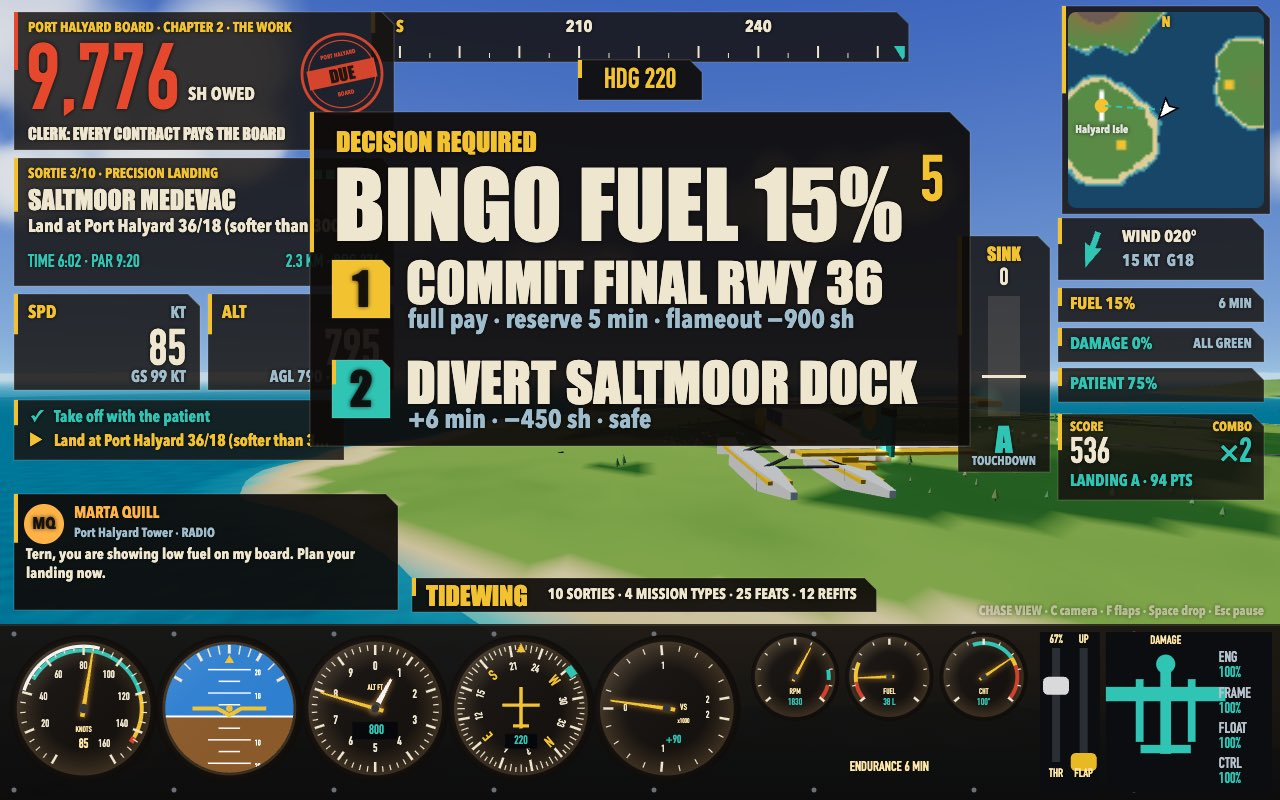
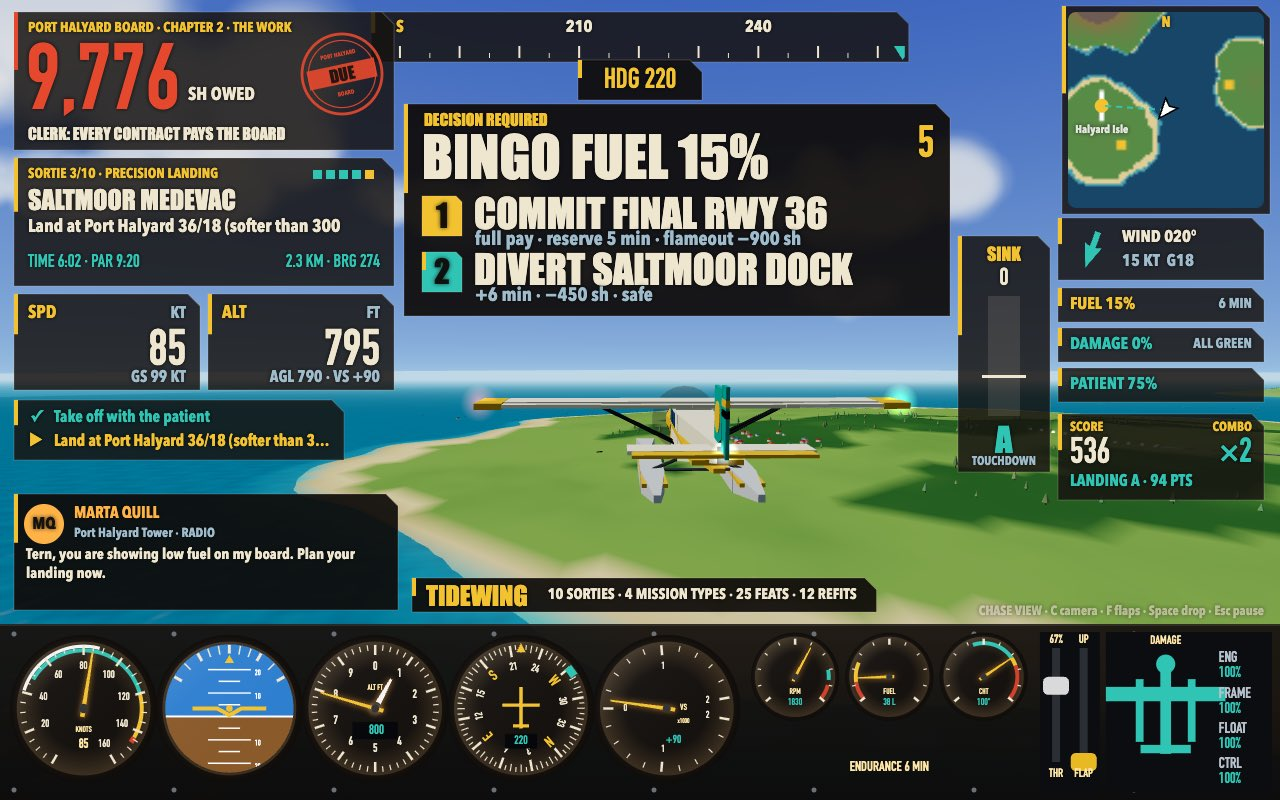
fix(hud): decision boxes in a strip under the heading tape, clear of the aircraft and readouts
At most 45% of the width and 212 px tall, between the SPD/ALT column and the sink
meter. Both options keep their costs and the damage lines stay. Bingo and damage
cells re-rendered with the Tern in frame.

diff --git a/game/src/hud/flightHud.js b/game/src/hud/flightHud.js
@@ -588,52 +588,57 @@ export function drawFlightHud(ctx, W, H, ms, info) {
   scopeStrip(ctx, W, info.scope, info.panelTop - 46, 412, W - 16 - measure(ctx, help, 13) - 14);
 }
 
-// The bingo decision, sized to read from across the room: the headline, then each option
-// with its price in numbers. The countdown commits.
+// Where a decision box sits: a strip under the heading tape, right of the SPD/ALT boxes and
+// the mission card and left of the sink meter, at most 45% of the width and DECISION_H tall,
+// so the aircraft below it, the readouts and the meters stay in view.
+const DECISION_H = 212;
+function decisionFrame(W) {
+  const x = 404;
+  const w = Math.min(W * 0.45, W - 222 - 92 - 16 - x);
+  return { x, y: 104, w };
+}
+
+// The bingo decision: the headline, then each option with its price in numbers.
+// The countdown commits.
 function bingoBox(ctx, W, b) {
-  const w = 660;
-  const x = W / 2 - w / 2;
-  const y = 112;
-  box(ctx, x, y, w, 334, { fill: DARK, tab: AMBER, cut: 20 });
-  text(ctx, 'DECISION REQUIRED', x + 26, y + 30, 26, AMBER, 'left', 'display');
-  text(ctx, `${b.left}`, x + w - 26, y + 70, 64, AMBER, 'right', 'numeral');
-  text(ctx, `BINGO FUEL ${b.fuelPct}%`, x + 24, y + 94, 92, INK, 'left', 'display');
+  const { x, y, w } = decisionFrame(W);
+  box(ctx, x, y, w, DECISION_H, { fill: DARK, tab: AMBER, cut: 14 });
+  text(ctx, 'DECISION REQUIRED', x + 20, y + 16, 16, AMBER, 'left', 'display');
+  text(ctx, `${b.left}`, x + w - 16, y + 40, 44, AMBER, 'right', 'numeral');
+  text(ctx, `BINGO FUEL ${b.fuelPct}%`, x + 18, y + 54, 56, INK, 'left', 'display');
   const opt = (yy, key, head, cost, col) => {
-    box(ctx, x + 22, yy - 30, 58, 58, { fill: col, cut: 8 });
-    text(ctx, key, x + 51, yy, 46, DARK, 'center', 'display');
-    text(ctx, head, x + 96, yy - 6, 54, INK, 'left', 'display');
-    text(ctx, cost, x + 98, yy + 32, 26, DIM);
+    box(ctx, x + 18, yy - 20, 40, 40, { fill: col, cut: 6 });
+    text(ctx, key, x + 38, yy, 32, DARK, 'center', 'display');
+    text(ctx, clip(ctx, head, w - 90, 40), x + 70, yy - 2, 40, INK, 'left', 'display');
+    text(ctx, cost, x + 71, yy + 25, 19, DIM);
   };
-  opt(y + 178, '1', `COMMIT FINAL RWY ${b.commit.rwy}`, `full pay · reserve ${b.commit.reserveMin} min · flameout −${b.commit.flameoutSh} sh`, AMBER);
-  opt(y + 278, '2', `DIVERT ${b.divert.to.toUpperCase()}`, `+${b.divert.min} min · −${b.divert.sh} sh · safe`, CYAN);
+  opt(y + 112, '1', `COMMIT FINAL RWY ${b.commit.rwy}`, `full pay · reserve ${b.commit.reserveMin} min · flameout −${b.commit.flameoutSh} sh`, AMBER);
+  opt(y + 168, '2', `DIVERT ${b.divert.to.toUpperCase()}`, `+${b.divert.min} min · −${b.divert.sh} sh · safe`, CYAN);
 }
 
 // YOUR CALL on damage: each hurt part with its effect, then repair at the next stop or press on.
 function repairBox(ctx, W, r, lines = []) {
-  const w = 660;
-  const x = W / 2 - w / 2;
-  const y = 112;
-  const shown = lines.slice(0, 2);
-  const h = 150 + shown.length * 50 + 96;
-  box(ctx, x, y, w, h, { fill: DARK, tab: AMBER, cut: 20 });
-  text(ctx, 'YOUR CALL', x + 26, y + 30, 26, AMBER, 'left', 'display');
-  text(ctx, `${r.left}`, x + w - 26, y + 70, 64, AMBER, 'right', 'numeral');
-  text(ctx, 'SHE IS FLYING HURT', x + 24, y + 92, 72, INK, 'left', 'display');
-  shown.forEach((l, i) => {
+  const { x, y, w } = decisionFrame(W);
+  box(ctx, x, y, w, DECISION_H, { fill: DARK, tab: AMBER, cut: 14 });
+  text(ctx, 'YOUR CALL', x + 20, y + 16, 16, AMBER, 'left', 'display');
+  text(ctx, `${r.left}`, x + w - 16, y + 40, 44, AMBER, 'right', 'numeral');
+  text(ctx, 'FLYING HURT', x + 18, y + 50, 48, INK, 'left', 'display');
+  lines.slice(0, 2).forEach((l, i) => {
     const [part, effect] = l.text.split(' · ');
-    const yy = y + 150 + i * 50;
-    text(ctx, part, x + 26, yy, 40, AMBER, 'left', 'display');
-    text(ctx, clip(ctx, effect, w - 60 - measure(ctx, part, 40, 'display'), 30), x + 40 + measure(ctx, part, 40, 'display'), yy + 2, 30, INK);
+    const yy = y + 94 + i * 30;
+    const pw = measure(ctx, part, 28, 'display');
+    text(ctx, part, x + 20, yy, 28, AMBER, 'left', 'display');
+    text(ctx, clip(ctx, effect, w - 44 - pw, 19), x + 32 + pw, yy + 1, 19, INK);
   });
-  const yy = y + h - 52;
-  const half = (w - 44 - 16) / 2;
+  const yy = y + 176;
+  const half = (w - 36 - 10) / 2;
   const choice = (cx, key, head, cost, col) => {
-    box(ctx, cx, yy - 30, half, 74, { fill: PANEL.panel, tab: col, cut: 10 });
-    text(ctx, `${key} ${head}`, cx + 16, yy, 40, col, 'left', 'display');
-    text(ctx, cost, cx + 18, yy + 30, 24, DIM);
+    box(ctx, cx, yy - 26, half, 56, { fill: PANEL.panel, tab: col, cut: 8 });
+    text(ctx, `${key} ${head}`, cx + 14, yy - 7, 30, col, 'left', 'display');
+    text(ctx, cost, cx + 15, yy + 16, 16, DIM);
   };
-  choice(x + 22, '1', 'REPAIR', `−${r.sh} sh · +${r.min} min, next stop`, CYAN);
-  choice(x + 22 + half + 16, '2', 'PRESS ON', 'fly her hurt, 0 sh', AMBER);
+  choice(x + 18, '1', 'REPAIR', `−${r.sh} sh · +${r.min} min, next stop`, CYAN);
+  choice(x + 18 + half + 10, '2', 'PRESS ON', 'fly her hurt, 0 sh', AMBER);
 }
 
 // The first minute of a sortie: the keys, so the pilot learns by flying.

diff --git a/game/src/shots/shotMode.js b/game/src/shots/shotMode.js
@@ -118,7 +118,7 @@ export const SHOTS = {
     stepMission(ms, {}, { bot: true });
     ms.extra.bingo.at = ms.t - 3;
     ms.def = { ...ms.def, timeOfDay: 'day' };
-    return { ms, career: flyCareer(2).career, view: 'chase', camera: { distance: 22, height: 3, side: -8, lookAhead: 60, lookDown: -2, fov: 62 } };
+    return { ms, career: flyCareer(2).career, view: 'chase', camera: { distance: 22, height: 3, side: -3, lookAhead: 60, lookDown: -2, fov: 62 } };
   },
   damage() {
     const ms = startMission(missionById('waterBomber'), {}, 1);
